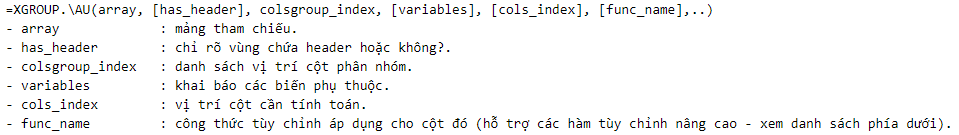
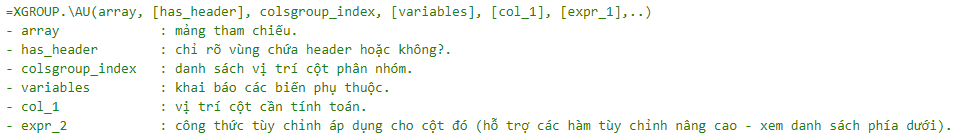
ok

diff --git a/xgroup.html b/xgroup.html
@@ -61,13 +61,13 @@
      </p>
      <blockquote>
       <p style="white-space: pre-line"><img src="gif/xgroup.syntax.png"><!--
-        =XGROUP.\AU(array, [has_header], colsgroup_index, [variables], [cols_index], [func_name],..)
+        =XGROUP.\AU(array, [has_header], colsgroup_index, [variables], [col_1], [expr_1],..)
         - array             : mảng tham chiếu.
         - has_header        : chỉ rõ vùng chứa header hoặc không?.
         - colsgroup_index   : danh sách vị trí cột phân nhóm.
         - variables         : khai báo các biến phụ thuộc.
-        - cols_index        : vị trí cột cần tính toán.
-        - func_name         : công thức tùy chỉnh áp dụng cho cột đó (hỗ trợ các hàm tùy chỉnh nâng cao - xem danh sách phía dưới). -->
+        - col_1             : vị trí cột cần tính toán.
+        - expr_2            : công thức tùy chỉnh áp dụng cho cột đó (hỗ trợ các hàm tùy chỉnh nâng cao - xem danh sách phía dưới). -->
       </p>
     </blockquote>
 
@@ -140,7 +140,8 @@
             - TRIM/REPLACE/QUOTE                                [vd: replace(c1,'a','b') hoặc quote(c1)]
             - UPPER/LOWER/PROPER/SENTENCE                       [vd: upper(c1)]
             - ABS/ROUND/ROUNDUP/ROUNDDOWN/CEILING               [vd: round(c1,2) làm tròn 2 chữ số thập phân]
-            - DAY/MONTH/YEAR                                    [vd: day(c1) trả về ngày (1-31)hoặc month(c1) trả về tháng] 
+            - DAY/MONTH/YEAR                                    [vd: day(c1) trả về ngày (1-31)hoặc month(c1) trả về tháng(1-12)] 
+            - HOUR/MINUTE/SECOND                                [vd: hour(c1) trả về giờ (0-23h)hoặc MINUTE(c1) trả về phút(0-59p)] 
         -->
         </p>
     </blockquote>
